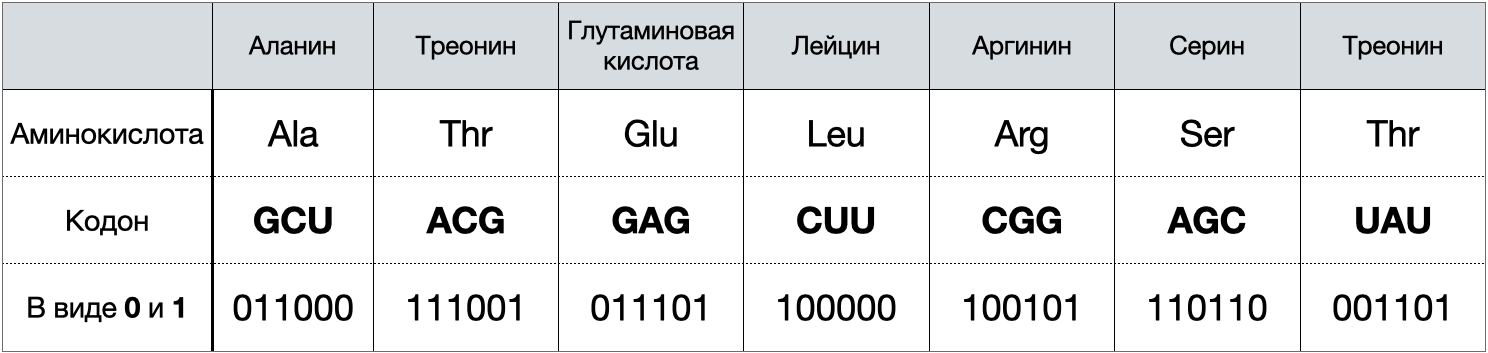
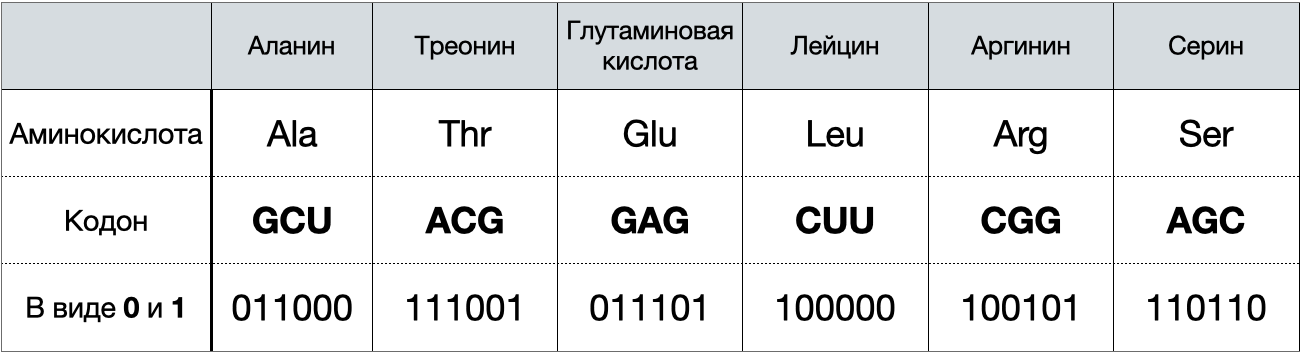
wip

diff --git a/funnel2.ru.md b/funnel2.ru.md
@@ -37,7 +37,7 @@ show_header: false
 
 
 А уже знакомый фрагмент кода можно представить в виде:
-**...011000111001011101100000100101110110001101...**
+**...011000111001011101100000100101110110...**
 
 Сколькими способами можно записать последовательность из шести 0 и 1? 
 Не мне тебе рассказывать, что это 2 в 6й степени, то есть 64.
